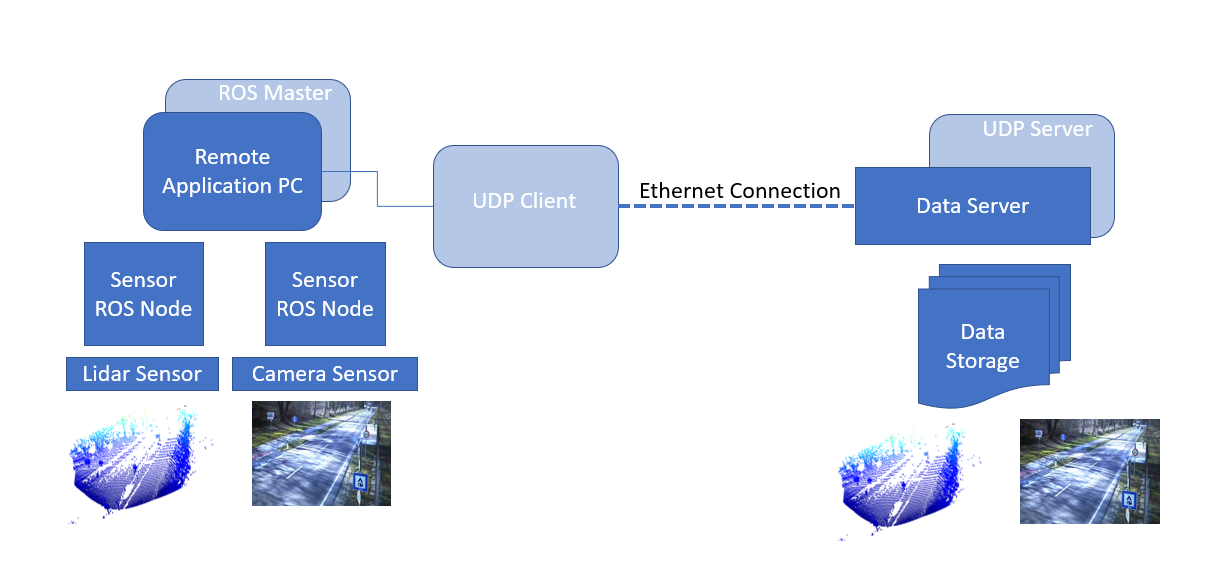
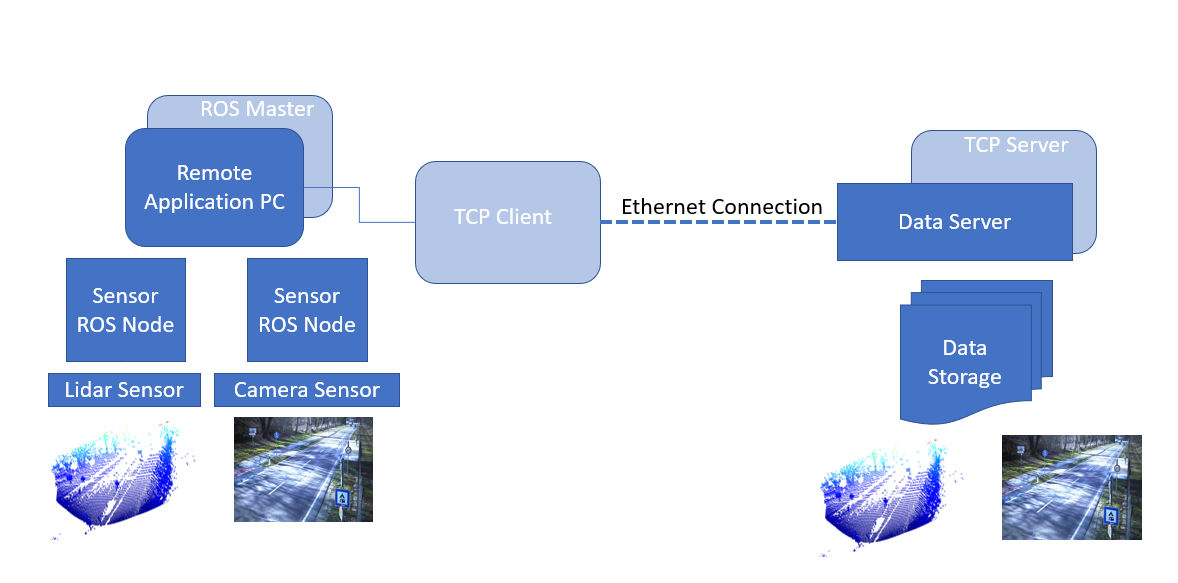
Updated Code

Changed region(s): [[0.0306, 0.1183, 0.9779, 0.9461]]

diff --git a/scripts/synchronized_image_receiver.py b/scripts/synchronized_image_receiver.py
@@ -1,10 +1,8 @@
 #!/usr/bin/env python
 
-#!/usr/bin/env python
-
 #############################
-# UDP Video Stream Receiver
-# A Simple example of Video Stream Receiveing with OpenCV and gStreamer
+# Synchronized Image Frame Receiver
+# Python script used to receive the compressed image frame from application pc and decomress it and store it as cv2 images
 # Shrivathsa.udupa@gmail.com
 #############################
 
@@ -16,7 +14,6 @@ import cv2
 import numpy as np
 import datetime
 import os
-import redis
 import rospy
 #import open3d as o3d
 import socket
@@ -26,16 +23,23 @@ import struct
 
 
 
-sock = socket.socket(socket.AF_INET, socket.SOCK_STREAM)
-sock.bind(("127.0.0.1", 20001))
-sock.listen(5)
-(client_i, addr) = sock.accept()
-print("Received a connection from ", addr)
+
 
 numpyArBytes=b''
 HEADERSIZE=10
 cameraID=62
 data_save_path=rospy.get_param('save_path',"/home/in2lab/Data/")
+server_IP=rospy.get_param('server_IP',"192.168.199.199")
+image_port=rospy.get_param('image_port',"20062")
+sock = socket.socket(socket.AF_INET, socket.SOCK_STREAM)
+sock.bind((server_IP, image_port))
+
+
+sock.listen(5)
+(client_i, addr) = sock.accept()
+print("Received a connection from ", addr)
+
+
 savePath=data_save_path+"/{}/{}".format(datetime.datetime.now().date(),"Image")
 
 print(savePath)

diff --git a/scripts/synchronized_pointcloud_receiver.py b/scripts/synchronized_pointcloud_receiver.py
@@ -3,8 +3,8 @@
 #!/usr/bin/env python
 
 #############################
-# UDP Video Stream Receiver
-# A Simple example of Video Stream Receiveing with OpenCV and gStreamer
+# Synchronized Pointcloud Receiver
+# Python script for receiveing Synchronized Pointclouds from Sensor Application PC
 # Shrivathsa.udupa@gmail.com
 #############################
 
@@ -16,7 +16,6 @@ import cv2
 import numpy as np
 import datetime
 import os
-import redis
 import rospy
 #import open3d as o3d
 import socket
@@ -25,18 +24,18 @@ import pickle
 import struct
 
 
-
-
-sock = socket.socket(socket.AF_INET, socket.SOCK_STREAM)
-sock.bind(("127.0.0.1", 20002))
-sock.listen(5)
-(client, addr) = sock.accept()
-print("Received a connection from ", addr)
-
 numpyArBytes=b''
 HEADERSIZE=10
 data_save_path=rospy.get_param('save_path',"/home/in2lab/Data/")
+server_IP=rospy.get_param('server_IP',"192.168.199.199")
+pointcloud_port=rospy.get_param('pointcloud_port',"20067")
 savePath=data_save_path+"/{}/{}".format(datetime.datetime.now().date(),"Lidar")
+
+sock = socket.socket(socket.AF_INET, socket.SOCK_STREAM)
+sock.bind((server_IP, pointcloud_port))
+sock.listen(5)
+(client, addr) = sock.accept()
+print("Received a connection from ", addr)
 
 print(savePath)
 if not os.path.exists(savePath):
